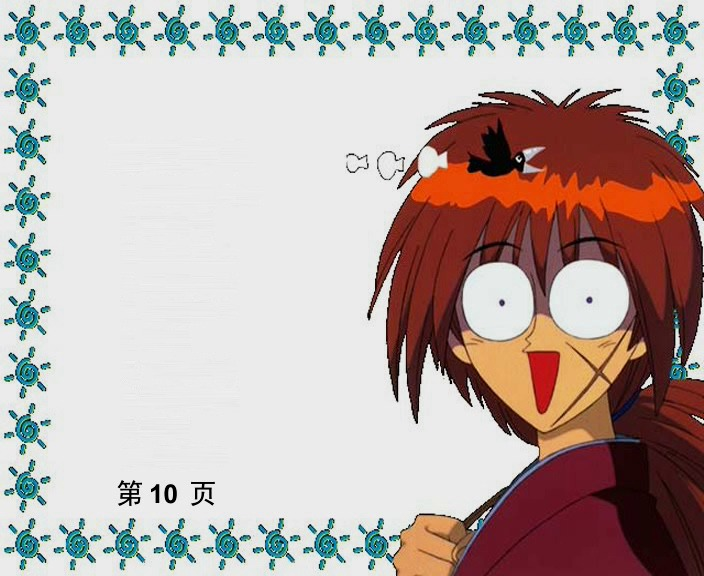
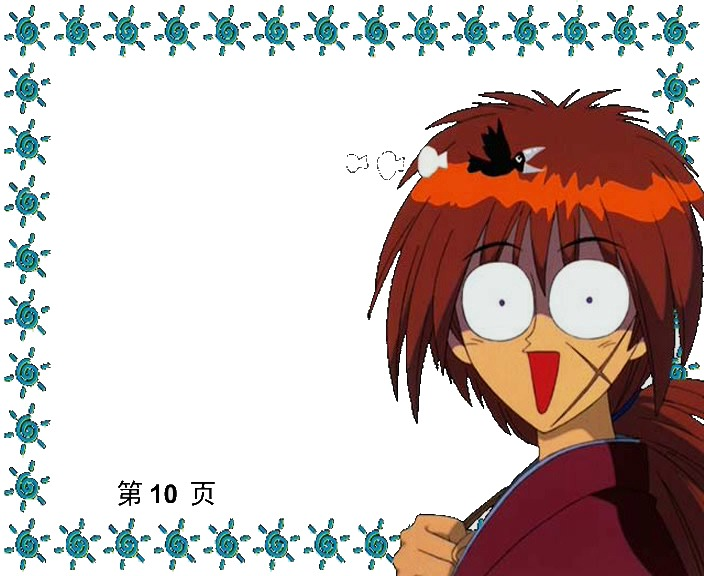
fix: revert text-removal smears and clean remaining page artifacts
The x=345 widening plus removal of the white-background pass made glyph interpolation smear across every page. Restore the narrow mask/white-background path, patch only the known isolated leftovers on pages 13/14/15/18/25, and rebuild page 27 from the same clean artwork on page 7.

diff --git a/tools/prepare_menu_pages.py b/tools/prepare_menu_pages.py
@@ -11,6 +11,7 @@
 import argparse
 import os
 import sys
+from collections import deque
 
 try:
     from PIL import Image
@@ -19,7 +20,43 @@ except ImportError:  # pragma: no cover
     raise SystemExit(2)
 
 # 只处理标题和 10 行正文；底部「第 N 页」和左右花纹/右侧卡通画保留
-TEXT_BOX = (80, 90, 345, 480)
+TEXT_BOX = (80, 90, 285, 480)
+
+
+def clean_white_background(im):
+    """保留白色底，只清掉与边缘连通的水印/浅灰，不改成黄底"""
+    w, h = im.size
+    px = im.load()
+    seen = bytearray(w * h)
+    q = deque()
+
+    def is_bg(c):
+        return min(c) > 120 and max(c) - min(c) < 40
+
+    def add(x, y):
+        if 0 <= x < w and 0 <= y < h and not seen[y * w + x] and is_bg(px[x, y]):
+            seen[y * w + x] = 1
+            q.append((x, y))
+
+    for x in range(w):
+        add(x, 0)
+        add(x, h - 1)
+    for y in range(h):
+        add(0, y)
+        add(w - 1, y)
+    # 第 5/10/... 页的白色内区被星形边框围住，补几个内部种子
+    for seed in ((70, 80), (70, 300), (70, 500)):
+        add(*seed)
+    while q:
+        x, y = q.popleft()
+        for nx, ny in ((x - 1, y), (x + 1, y), (x, y - 1), (x, y + 1)):
+            add(nx, ny)
+    for y in range(h):
+        row = y * w
+        for x in range(w):
+            if seen[row + x]:
+                px[x, y] = (255, 255, 255)
+    return im
 
 
 def strip_text(im, pattern=None, white_bg=False):
@@ -35,7 +72,15 @@ def strip_text(im, pattern=None, white_bg=False):
             return (255, 255, 255)
         return pattern.getpixel((20, y))
 
-    # 找出黑色文字笔画并膨胀，覆盖抗锯齿
+    # 文字区内的白色/浅灰（含 Sample 水印和抗锯齿）换成该页底色
+    for y in range(y0, y1):
+        bg = bg_at(y)
+        for x in range(x0, x1):
+            c = px[x, y]
+            if min(c) > 120 and max(c) - min(c) < 40:
+                px[x, y] = bg
+
+    # 2) 找出黑色文字笔画并膨胀，覆盖抗锯齿
     mask = [[False] * (x1 - x0) for _ in range(y1 - y0)]
     for y in range(y0, y1):
         for x in range(x0, x1):
@@ -99,21 +144,34 @@ def main(argv=None):
             print("缺少", p)
             return 1
         im = Image.open(p).convert("RGB")
+        if i > 1:
+            im = clean_white_background(im)
         im = strip_text(im, base, white_bg=(i > 1))
-        # 第 27 页参考图自带的自行车条带：用同款的第 22 页原始底图
-        # 同坐标覆盖（22 页 x>=260 没有菜单文字），边缘羽化避免硬边。
+        # 参考图文字实际排到 x≈345，旧文字框只到 285；这几处是白底上的
+        # 孤立残字，直接补白，避免放宽整块文字区再次产生拖影。
+        patches = {
+            13: [(285, 205, 322, 245)],
+            14: [(278, 205, 312, 245)],
+            15: [(266, 198, 292, 230)],
+            18: [(268, 208, 296, 242), (268, 284, 320, 330)],
+            25: [(266, 316, 300, 372)],
+        }
+        for box in patches.get(i, ()):
+            im.paste((255, 255, 255), box)
+        # 第 27 页参考图自带自行车条带/水印。第 7 页是同一张底图且已清理，
+        # 直接用它的 x>=285 区域整块覆盖，只羽化左边接缝。
         if i == 27:
-            ref_path = os.path.join(args.src, "22.png")
+            ref_path = os.path.join(args.out, "07.png")
             if os.path.exists(ref_path):
                 ref = Image.open(ref_path).convert("RGB")
-                box = (260, 255, 580, 395)
+                w, h = im.size
+                box = (285, 0, w, h)
                 bw, bh = box[2] - box[0], box[3] - box[1]
-                mask = Image.new("L", (bw, bh), 0)
+                mask = Image.new("L", (bw, bh), 255)
                 mp = mask.load()
-                for yy in range(bh):
-                    for xx in range(bw):
-                        d = min(xx, yy, bw - 1 - xx, bh - 1 - yy)
-                        mp[xx, yy] = min(255, d * 255 // 12)
+                for xx in range(min(15, bw)):
+                    for yy in range(bh):
+                        mp[xx, yy] = xx * 17
                 im.paste(Image.composite(ref.crop(box), im.crop(box), mask),
                          (box[0], box[1]))
         im.save(os.path.join(args.out, "%02d.png" % i))
